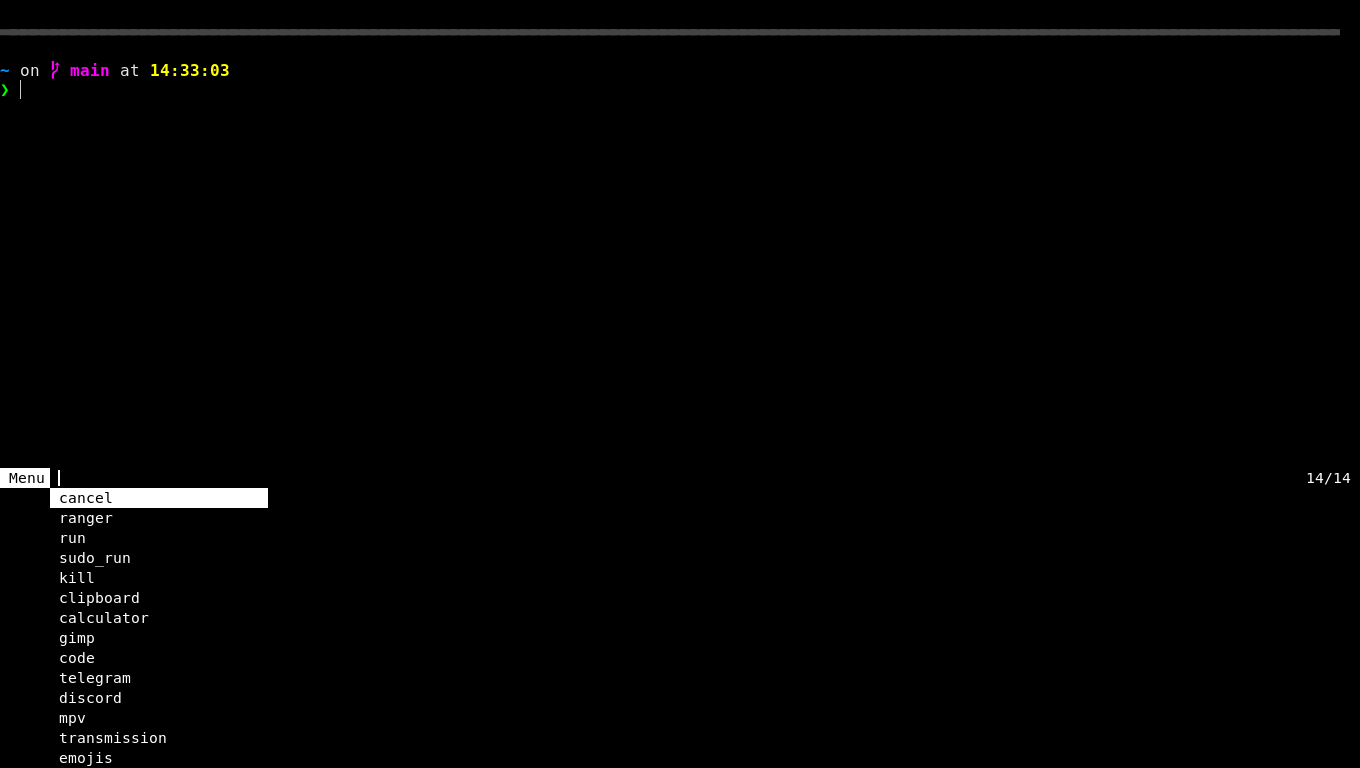
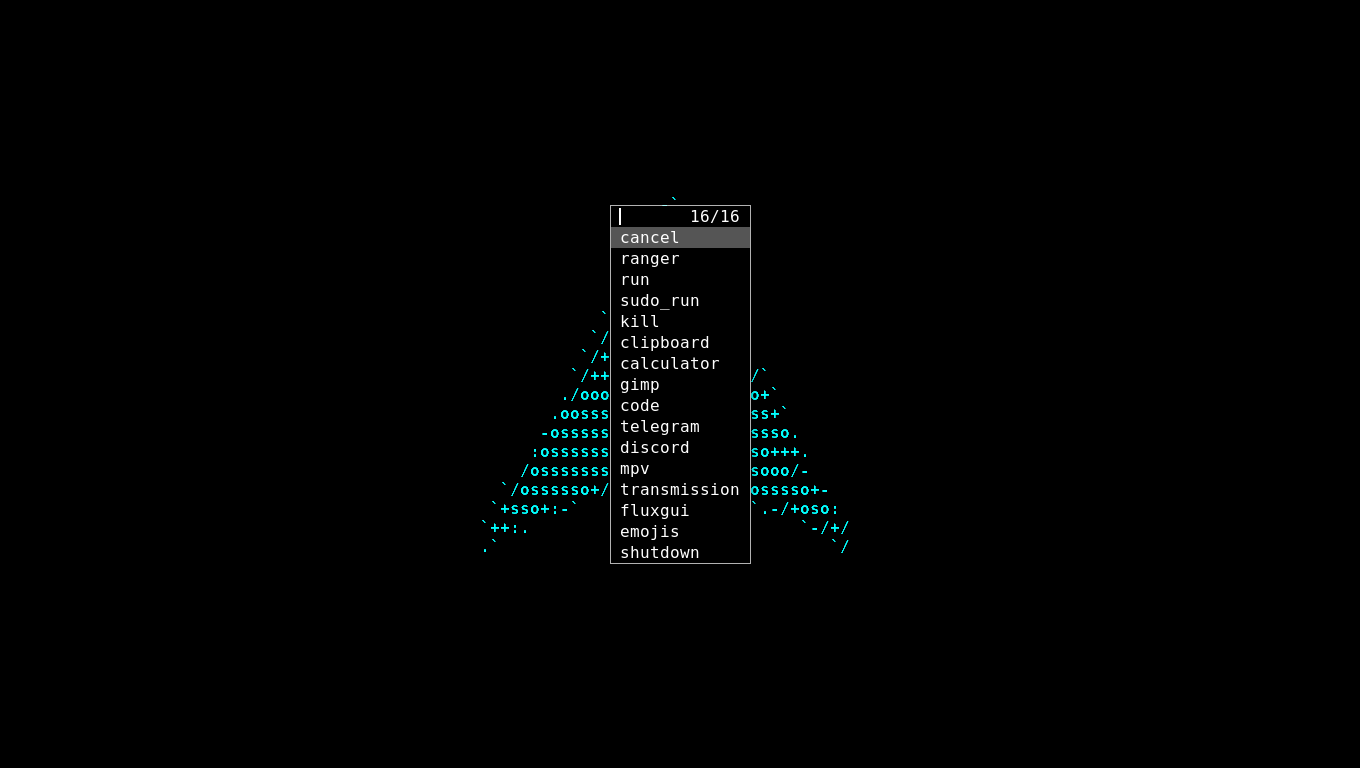
dmenu totalmente refeito com patches melhores

diff --git a/dmenu.c b/dmenu.c
@@ -29,8 +29,7 @@
 #define NUMBERSBUFSIZE        (NUMBERSMAXDIGITS * 2) + 1
 
 /* enums */
-enum { SchemeNorm, SchemeSel, SchemeNormHighlight, SchemeSelHighlight,
-       SchemeOut, SchemeLast }; /* color schemes */
+enum { SchemeNorm, SchemeSel, SchemeNormHighlight, SchemeSelHighlight, SchemeBorder, SchemeOut, SchemeLast }; /* color schemes */
 
 
 struct item {
@@ -44,6 +43,9 @@ static char numbers[NUMBERSBUFSIZE] = "";
 static char text[BUFSIZ] = "";
 static char *embed;
 static int bh, mw, mh;
+static int dmx = 0; /* put dmenu at this x offset */
+static int dmy = 0; /* put dmenu at this y offset (measured from the bottom if topbar is 0) */
+static unsigned int dmw = 0; /* make dmenu this wide */
 static int inputw = 0, promptw;
 static int lrpad; /* sum of left and right padding */
 static size_t cursor;
@@ -62,8 +64,9 @@ static Clr *scheme[SchemeLast];
 
 #include "config.h"
 
-static int (*fstrncmp)(const char *, const char *, size_t) = strncmp;
-static char *(*fstrstr)(const char *, const char *) = strstr;
+static char * cistrstr(const char *s, const char *sub);
+static int (*fstrncmp)(const char *, const char *, size_t) = strncasecmp;
+static char *(*fstrstr)(const char *, const char *) = cistrstr;
 
 static void
 appenditem(struct item *item, struct item **list, struct item **last)
@@ -84,7 +87,7 @@ calcoffsets(void)
 	int i, n;
 
 	if (lines > 0)
-		n = lines * columns * bh;
+		n = lines * bh;
 	else
 		n = mw - (promptw + inputw + TEXTW("<") + TEXTW(">"));
 	/* calculate which items will begin the next page and previous page */
@@ -94,6 +97,15 @@ calcoffsets(void)
 	for (i = 0, prev = curr; prev && prev->left; prev = prev->left)
 		if ((i += (lines > 0) ? bh : MIN(TEXTW(prev->left->text), n)) > n)
 			break;
+}
+
+static int
+max_textw(void)
+{
+	int len = 0;
+	for (struct item *item = items; item && item->text; item++)
+		len = MAX(TEXTW(item->text), len);
+	return len;
 }
 
 static void
@@ -217,15 +229,9 @@ drawmenu(void)
 
 	recalculatenumbers();
 	if (lines > 0) {
-		/* draw grid */
-		int i = 0;
-		for (item = curr; item != next; item = item->right, i++)
-			drawitem(
-				item,
-				x + ((i / lines) *  ((mw - x) / columns)),
-				y + (((i % lines) + 1) * bh),
-				(mw - x) / columns
-			);
+		/* draw vertical list */
+		for (item = curr; item != next; item = item->right)
+			drawitem(item, x, y += bh, mw - x);
 	} else if (matches) {
 		/* draw horizontal list */
 		x += inputw;
@@ -469,8 +475,6 @@ keypress(XKeyEvent *ev)
 	int len;
 	KeySym ksym;
 	Status status;
-	int i, offscreen = 0;
-	struct item *tmpsel;
 
 	len = XmbLookupString(xic, ev, buf, sizeof buf, &ksym, &status);
 	switch (status) {
@@ -603,27 +607,6 @@ insert:
 		break;
 	case XK_Left:
 	case XK_KP_Left:
-		if (columns > 1) {
-			if (!sel)
-				return;
-			tmpsel = sel;
-			for (i = 0; i < lines; i++) {
-				if (!tmpsel->left || tmpsel->left->right != tmpsel) {
-					if (offscreen)
-						break;
-					return;
-				}
-				if (tmpsel == curr)
-					offscreen = 1;
-				tmpsel = tmpsel->left;
-			}
-			sel = tmpsel;
-			if (offscreen) {
-				curr = prev;
-				calcoffsets();
-			}
-			break;
-		}
 		if (cursor > 0 && (!sel || !sel->left || lines > 0)) {
 			cursor = nextrune(-1);
 			break;
@@ -664,27 +647,6 @@ insert:
 		break;
 	case XK_Right:
 	case XK_KP_Right:
-		if (columns > 1) {
-			if (!sel)
-				return;
-			tmpsel = sel;
-			for (i = 0; i < lines; i++) {
-				if (!tmpsel->right ||  tmpsel->right->left != tmpsel) {
-					if (offscreen)
-						break;
-					return;
-				}
-				tmpsel = tmpsel->right;
-				if (tmpsel == next)
-					offscreen = 1;
-			}
-			sel = tmpsel;
-			if (offscreen) {
-				curr = next;
-				calcoffsets();
-			}
-			break;
-		}
 		if (text[cursor] != '\0') {
 			cursor = nextrune(+1);
 			break;
@@ -824,6 +786,7 @@ setup(void)
 	bh = drw->fonts->h + 2;
 	lines = MAX(lines, 0);
 	mh = (lines + 1) * bh;
+	promptw = (prompt && *prompt) ? TEXTW(prompt) - lrpad / 4 : 0;
 #ifdef XINERAMA
 	i = 0;
 	if (parentwin == root && (info = XineramaQueryScreens(dpy, &n))) {
@@ -850,21 +813,33 @@ setup(void)
 				if (INTERSECT(x, y, 1, 1, info[i]))
 					break;
 
-		x = info[i].x_org;
-		y = info[i].y_org + (topbar ? 0 : info[i].height - mh);
-		mw = info[i].width;
-		XFree(info);
+		if (centered) {
+			mw = MIN(MAX(max_textw() + promptw, min_width), info[i].width);
+			x = info[i].x_org + ((info[i].width  - mw) / 2);
+			y = info[i].y_org + ((info[i].height - mh) / 2);
+		} else {
+			x = info[i].x_org + dmx;
+			y = info[i].y_org + (topbar ? 0 : info[i].height - mh - dmy);
+			mw = (dmw>0 ? dmw : info[i].width);
+		}
+
+        XFree(info);
 	} else
 #endif
 	{
 		if (!XGetWindowAttributes(dpy, parentwin, &wa))
 			die("could not get embedding window attributes: 0x%lx",
 			    parentwin);
-		x = 0;
-		y = topbar ? 0 : wa.height - mh;
-		mw = wa.width;
+		if (centered) {
+			mw = MIN(MAX(max_textw() + promptw, min_width), wa.width);
+			x = (wa.width  - mw) / 2;
+			y = (wa.height - mh) / 2;
+		} else {
+		    x = dmx;
+		    y = topbar ? dmy : wa.height - mh - dmy;
+		    mw = (dmw>0 ? dmw : wa.width);
+        }
 	}
-	promptw = (prompt && *prompt) ? TEXTW(prompt) - lrpad / 4 : 0;
 	inputw = MIN(inputw, mw/3);
 	match();
 
@@ -872,9 +847,10 @@ setup(void)
 	swa.override_redirect = True;
 	swa.background_pixel = scheme[SchemeNorm][ColBg].pixel;
 	swa.event_mask = ExposureMask | KeyPressMask | VisibilityChangeMask;
-	win = XCreateWindow(dpy, parentwin, x, y, mw, mh, 0,
+	win = XCreateWindow(dpy, parentwin, x, y, mw, mh, border_width,
 	                    CopyFromParent, CopyFromParent, CopyFromParent,
 	                    CWOverrideRedirect | CWBackPixel | CWEventMask, &swa);
+	XSetWindowBorder(dpy, win, scheme[SchemeBorder][ColBg].pixel);
 	XSetClassHint(dpy, win, &ch);
 
 
@@ -903,9 +879,10 @@ static void
 usage(void)
 {
 	fputs("usage: dmenu [-bfiv] [-l lines] [-p prompt] [-fn font] [-m monitor]\n"
+	      "             [-x xoffset] [-y yoffset] [-z width]\n"
 	      "             [-nb color] [-nf color] [-sb color] [-sf color]\n"
 	      "             [-nhb color] [-nhf color] [-shb color] [-shf color] [-w windowid]\n", stderr);
-	exit(1);
+    exit(1);
 }
 
 int
@@ -923,21 +900,25 @@ main(int argc, char *argv[])
 			topbar = 0;
 		else if (!strcmp(argv[i], "-f"))   /* grabs keyboard before reading stdin */
 			fast = 1;
-		else if (!strcmp(argv[i], "-F"))   /* grabs keyboard before reading stdin */
+else if (!strcmp(argv[i], "-F"))   /* grabs keyboard before reading stdin */
 			fuzzy = 0;
-		else if (!strcmp(argv[i], "-i")) { /* case-insensitive item matching */
-			fstrncmp = strncasecmp;
-			fstrstr = cistrstr;
+        else if (!strcmp(argv[i], "-c"))   /* centers dmenu on screen */
+			centered = 1;
+		else if (!strcmp(argv[i], "-s")) { /* case-sensitive item matching */
+			fstrncmp = strncmp;
+			fstrstr = strstr;
 		} else if (i + 1 == argc)
 			usage();
 		/* these options take one argument */
-		else if (!strcmp(argv[i], "-g")) {   /* number of columns in grid */
-			columns = atoi(argv[++i]);
-			if (lines == 0) lines = 1;
-		} else if (!strcmp(argv[i], "-l")) { /* number of lines in grid */
+		else if (!strcmp(argv[i], "-l"))   /* number of lines in vertical list */
 			lines = atoi(argv[++i]);
-			if (columns == 0) columns = 1;
-		} else if (!strcmp(argv[i], "-m"))
+		else if (!strcmp(argv[i], "-x"))   /* window x offset */
+			dmx = atoi(argv[++i]);
+		else if (!strcmp(argv[i], "-y"))   /* window y offset (from bottom up if -b) */
+			dmy = atoi(argv[++i]);
+		else if (!strcmp(argv[i], "-z"))   /* make dmenu this wide */
+			dmw = atoi(argv[++i]);
+		else if (!strcmp(argv[i], "-m"))
 			mon = atoi(argv[++i]);
 		else if (!strcmp(argv[i], "-p"))   /* adds prompt to left of input field */
 			prompt = argv[++i];

diff --git a/config.def.h b/config.def.h
@@ -2,6 +2,8 @@
 /* Default settings; can be overriden by command line. */
 
 static int topbar = 0;                      /* -b  option; if 0, dmenu appears at bottom     */
+static int centered = 0;                    /* -c option; centers dmenu on screen */
+static int min_width = 100;                    /* minimum width when centered */
 static int fuzzy = 1;                      /* -F  option; if 0, dmenu doesn't use fuzzy matching     */
 /* -fn option overrides fonts[0]; default X11 font or font set */
 static const char *fonts[] = {
@@ -12,16 +14,19 @@ static const char *colors[SchemeLast][2] = {
 	/*                         fg         bg       */
 	[SchemeNorm] = {          "#FFFFFF", "#000000" },
 	[SchemeSel] = {           "#FFFFFF", "#555555" },
-	[SchemeSelHighlight] = {  "#FF0000", "#555555" },
+	[SchemeSelHighlight] = {  "#FFFF00", "#555555" },
 	[SchemeNormHighlight] = { "#FFFF00", "#000000" },
 	[SchemeOut] = {           "#FFFFFF", "#000000" },
+	[SchemeBorder] = {        "#FFFFFF", "#FFFFFF" },
 };
 /* -l and -g options; controls number of lines and columns in grid if > 0 */
 static unsigned int lines      = 20;
-static unsigned int columns    = 1;
 
 /*
  * Characters not considered part of a word while deleting words
  * for example: " /?\"&[]"
  */
 static const char worddelimiters[] = " ";
+
+/* Size of the window border */
+static const unsigned int border_width = 1;

diff --git a/drw.c b/drw.c
@@ -133,19 +133,6 @@ xfont_create(Drw *drw, const char *fontname, FcPattern *fontpattern)
 		die("no font specified.");
 	}
 
-	/* Do not allow using color fonts. This is a workaround for a BadLength
-	 * error from Xft with color glyphs. Modelled on the Xterm workaround. See
-	 * https://bugzilla.redhat.com/show_bug.cgi?id=1498269
-	 * https://lists.suckless.org/dev/1701/30932.html
-	 * https://bugs.debian.org/cgi-bin/bugreport.cgi?bug=916349
-	 * and lots more all over the internet.
-	 */
-	FcBool iscol;
-	if(FcPatternGetBool(xfont->pattern, FC_COLOR, 0, &iscol) == FcResultMatch && iscol) {
-		XftFontClose(drw->dpy, xfont);
-		return NULL;
-	}
-
 	font = ecalloc(1, sizeof(Fnt));
 	font->xfont = xfont;
 	font->pattern = pattern;
@@ -351,7 +338,6 @@ drw_text(Drw *drw, int x, int y, unsigned int w, unsigned int h, unsigned int lp
 			fcpattern = FcPatternDuplicate(drw->fonts->pattern);
 			FcPatternAddCharSet(fcpattern, FC_CHARSET, fccharset);
 			FcPatternAddBool(fcpattern, FC_SCALABLE, FcTrue);
-			FcPatternAddBool(fcpattern, FC_COLOR, FcFalse);
 
 			FcConfigSubstitute(NULL, fcpattern, FcMatchPattern);
 			FcDefaultSubstitute(fcpattern);

diff --git a/README.md b/README.md
@@ -6,12 +6,18 @@
 
 ## Patches
 
-- Procura por partes de palavras (fuzzymatch)
+- Suporte a fontes coloridas [allow color font](https://tools.suckless.org/dmenu/patches/allow-color-font/)
 
-- Partes sendo procuradas ficam em amarelo (fuzzyhighlight)
+- Procura por partes de palavras [fuzzymatch](https://tools.suckless.org/dmenu/patches/fuzzymatch/)
 
-- Colunas (grid)
+- Partes sendo procuradas ficam em amarelo [fuzzyhighlight](https://tools.suckless.org/dmenu/patches/fuzzyhighlight/)
 
-- navegação entre as colunas (gridnav)
+- Posicionamento e tamanho controlaveis [xyw](https://tools.suckless.org/dmenu/patches/xyw/)
 
-- numeração da quantidade achada/total de itens (numbers)
+- Borda [border](https://tools.suckless.org/dmenu/patches/border/)
+
+- numeração da quantidade achada/total de itens [numbers](https://tools.suckless.org/dmenu/patches/numbers/)
+
+- Procura ignora letra maiusculas se não especificado [case insensitive](https://tools.suckless.org/dmenu/patches/case-insensitive/)
+
+- Centraliza janelas quando especificado [center](https://tools.suckless.org/dmenu/patches/center/)
